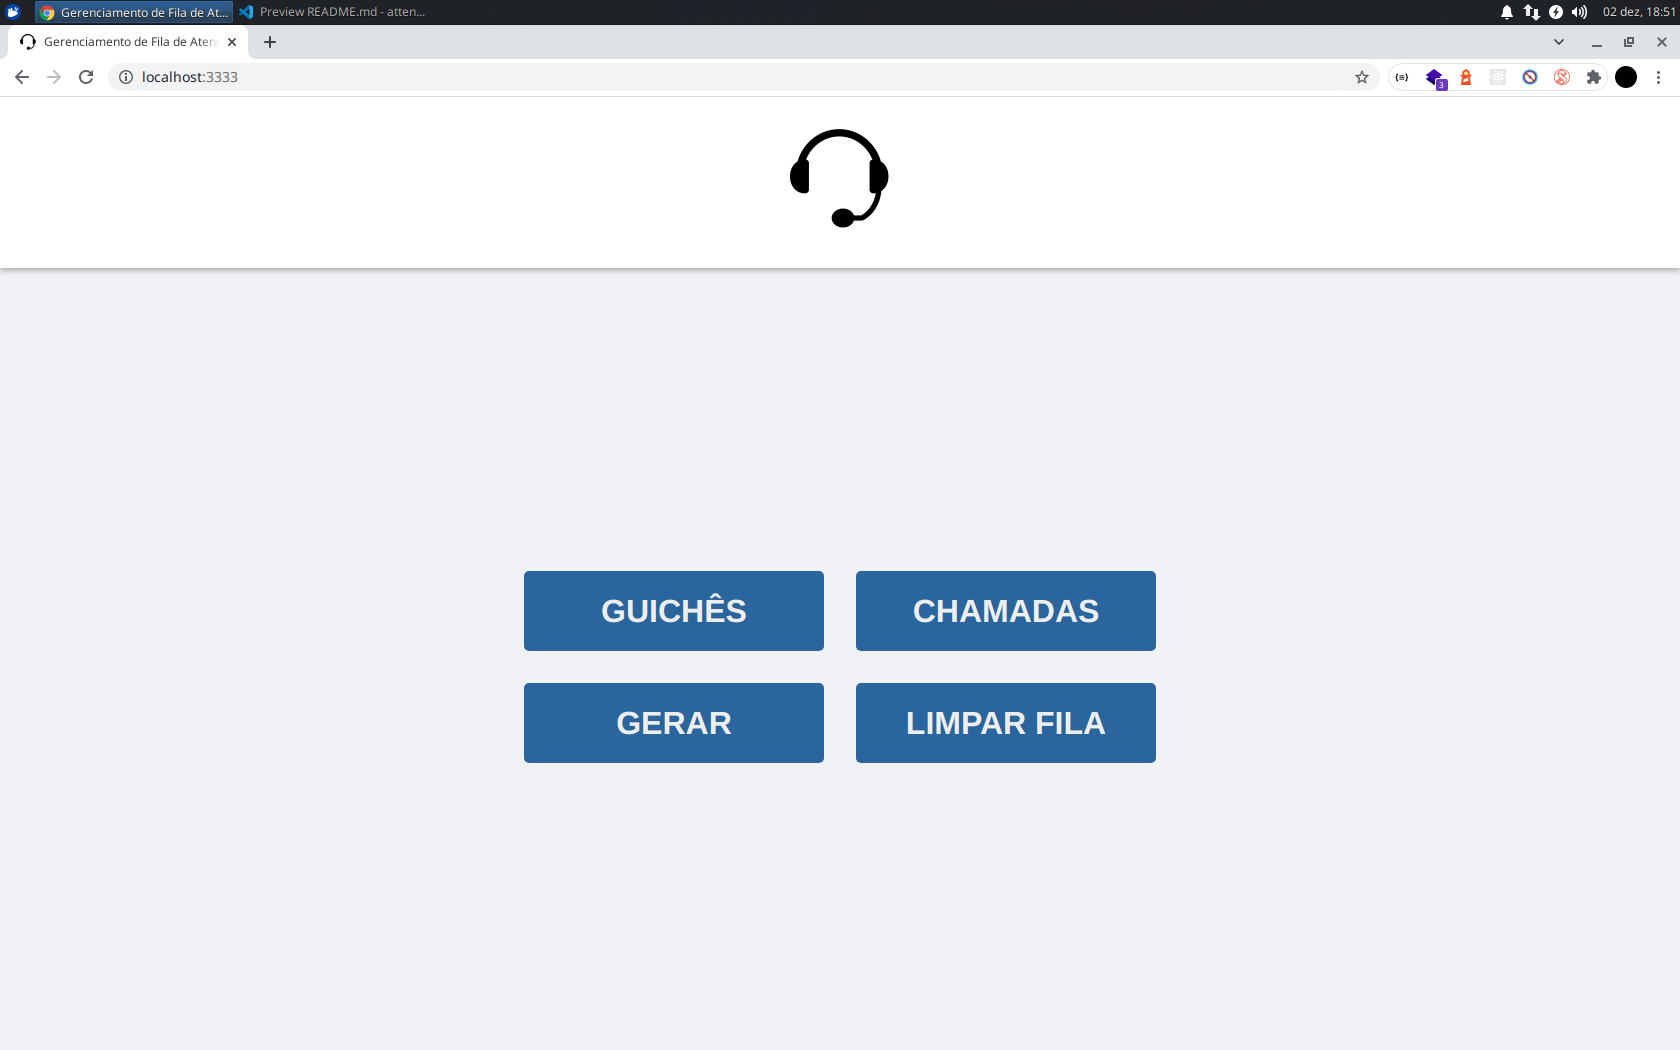
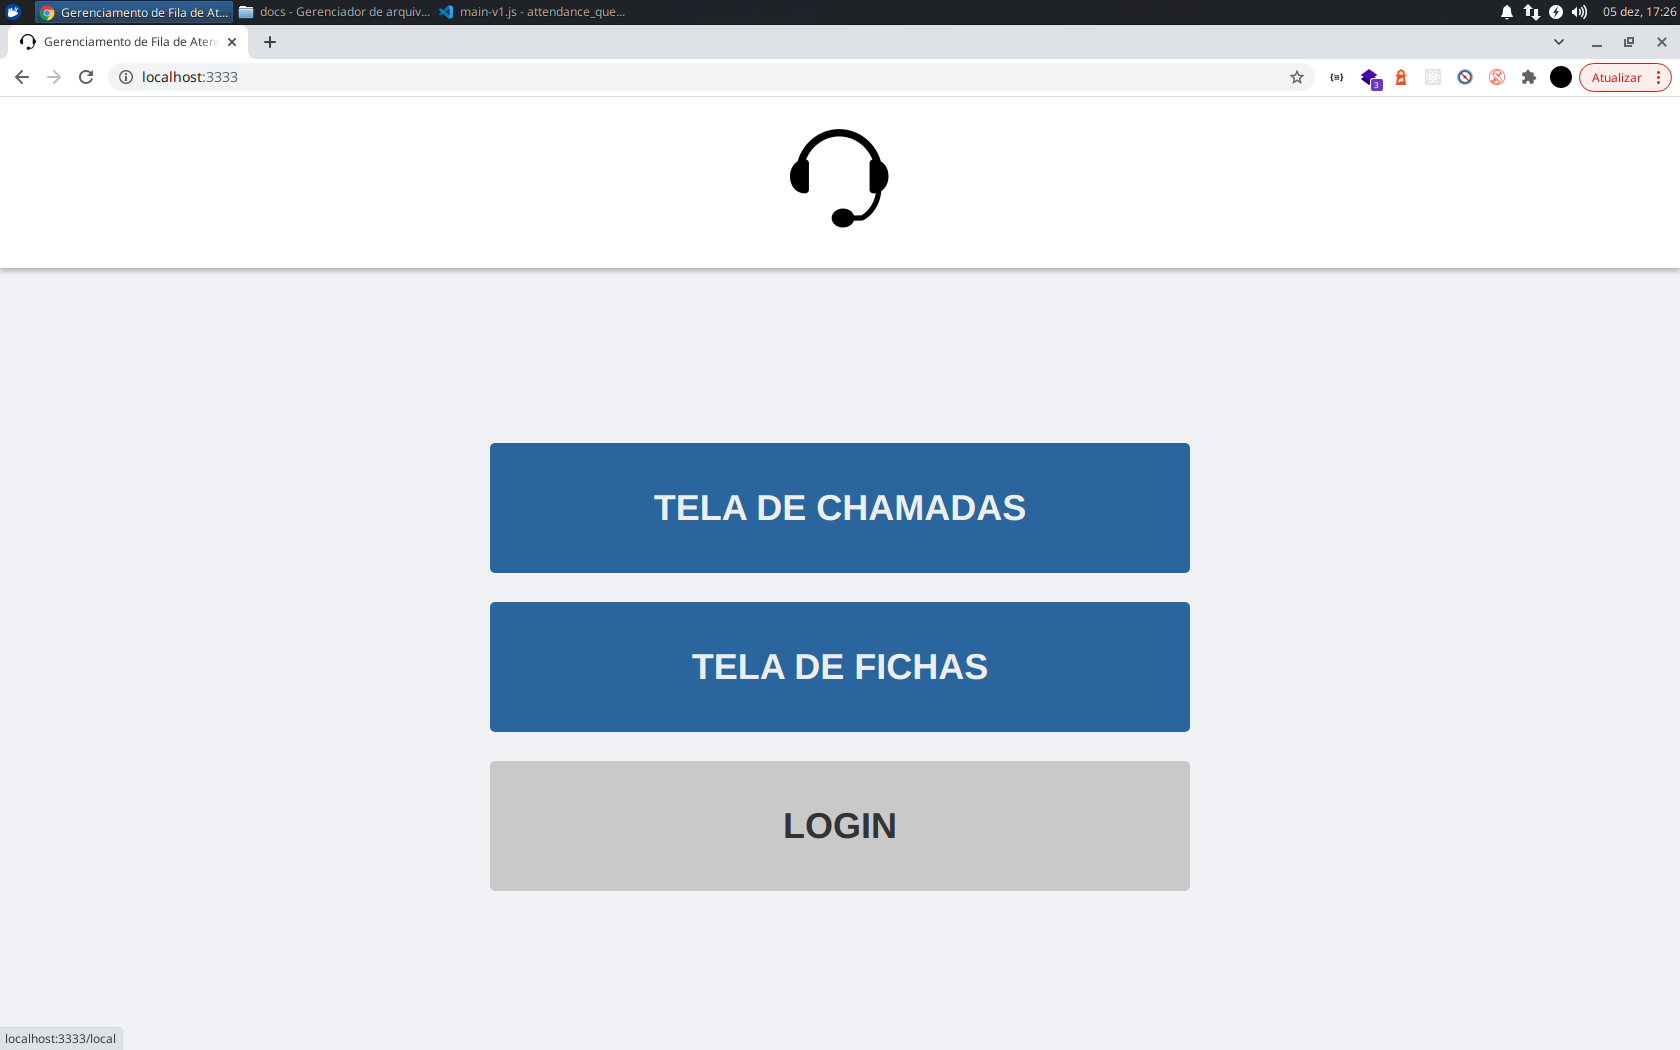
refactor: change queue(QueueCalls) in object from array, change query in locals

diff --git a/public/assets/js/main-v1.js b/public/assets/js/main-v1.js
@@ -1,5 +1,5 @@
 /* eslint-env browser */
-/* eslint no-undef: off */
+/* global firebase */
 /* eslint no-alert: off */
 /* eslint no-implied-eval: off */
 
@@ -13,49 +13,16 @@ const locals = {
   consultorio: 'consultório',
 };
 const data_default = {
-  n: 0,
-  p: 0,
-  queue_nm: [
-    {
-      client: {
-        local: 'GUICHÊ 00',
-        pass: 'NM00',
-      },
-    },
-  ],
-  queue_pd: [
-    {
-      client: {
-        local: 'GUICHÊ 00',
-        pass: 'PD00',
-      },
-    },
-  ],
+  nm: 0,
+  pd: 0,
+  queue_nm: ['NM00'],
+  queue_pd: ['PD00'],
 };
 const audio = new Audio(
   'assets/sounds/salamisound-2028068-ding-dong-bell-doorbell.mp3',
 );
 const container = document.querySelector('#screen');
 const visor_time = document.querySelector('#visor_time');
-
-function createModelQueueCalls() {
-  const getId_queueCalls = database
-    .ref()
-    .child('queueCalls')
-    .push(data_default).key;
-  localStorage.setItem('id_queueCalls', getId_queueCalls);
-
-  const getId_calls = database
-    .ref()
-    .child('calls')
-    .push({
-      client: {
-        local: 'GUICHÊ 00',
-        pass: 'NM00',
-      },
-    }).key;
-  localStorage.setItem('id_calls', getId_calls);
-}
 
 function startCountdown() {
   if (tempo - 0 >= 0) {
@@ -79,6 +46,24 @@ function startCountdown() {
   }
 }
 
+function createModelQueueCalls() {
+  const data = {
+    client: {
+      local: 'GUICHÊ 00',
+      pass: 'NM00',
+    },
+  };
+  const getId_queueCalls = database
+    .ref()
+    .child('queueCalls')
+    .push(data_default).key;
+  localStorage.setItem('id_queueCalls', getId_queueCalls);
+
+  const getId_calls = database.ref().child('calls').push({}).key;
+  database.ref().child(`calls/${getId_calls}`).push(data);
+  localStorage.setItem('id_calls', getId_calls);
+}
+
 function cleanCallsDB(noAlert = false) {
   database
     .ref()
@@ -100,25 +85,23 @@ function generateRecord(e) {
     const data_updated = item.val();
 
     if (e.target.id === 'generate_record_pd') {
-      data_default.queue_pd[0].client.pass = `PD${
-        data_updated.p >= 9
-          ? (data_updated.p += 1)
-          : `0${(data_updated.p += 1)}`
-      }`;
-      data_updated.queue_pd.push(data_default.queue_pd[0]);
-      document.querySelector(
-        '#pass',
-      ).innerText = `Sua senha é: PD${data_updated.p}`;
+      data_updated.queue_pd.push(
+        `PD${
+          data_updated.pd >= 9
+            ? (data_updated.pd += 1)
+            : `0${(data_updated.pd += 1)}`
+        }`,
+      );
+      alert(`Sua senha é: PD${data_updated.pd}`);
     } else {
-      data_default.queue_nm[0].client.pass = `NM${
-        data_updated.n >= 9
-          ? (data_updated.n += 1)
-          : `0${(data_updated.n += 1)}`
-      }`;
-      data_updated.queue_nm.push(data_default.queue_nm[0]);
-      document.querySelector(
-        '#pass',
-      ).innerText = `Sua senha é: NM${data_updated.n}`;
+      data_updated.queue_nm.push(
+        `NM${
+          data_updated.nm >= 9
+            ? (data_updated.nm += 1)
+            : `0${(data_updated.nm += 1)}`
+        }`,
+      );
+      alert(`Sua senha é: NM${data_updated.nm}`);
     }
 
     const updates = {};
@@ -133,36 +116,59 @@ function generateRecord(e) {
 }
 
 function nextCall(e) {
+  let tempo2 = 0;
+  function startCountdownLocal() {
+    if (tempo2 - 0 >= 0) {
+      let min = tempo2 / 60;
+      let seg = tempo2 % 60;
+
+      if (min <= 9) {
+        min = `0${min}`;
+        min = min.substr(0, 2);
+      } else {
+        min = parseInt(min, 10);
+      }
+
+      if (seg <= 9) {
+        seg = `0${seg}`;
+      }
+
+      visor_time.innerText = `${min}:${seg}`;
+      setTimeout(`startCountdown()`, 1000);
+      tempo2 += 1;
+    }
+  }
+
   database.ref(`queueCalls/${id_queueCalls}`).once('value', item => {
     const data_updated = item.val();
     const local = window.location.search.split('?')[1].split('l=')[1];
     const number = window.location.search.split('?')[2].split('n=')[1];
-    let element;
-    let data;
+    const data = {
+      client: {
+        local: `${local
+          .replace(local, locals[local])
+          .toLocaleUpperCase()} ${number}`,
+        pass: '00',
+      },
+    };
 
     if (e.target.id === 'next_nm') {
-      element = data_updated.queue_nm;
-      if (!(element.length >= 2)) {
+      if (!(data_updated.queue_nm.length >= 2)) {
         return alert('Sem fila');
       }
-      data = element.splice(1, 1);
-      data_updated.queue_nm = element;
+      const [pass] = data_updated.queue_nm.splice(1, 1);
+      data.client.pass = pass;
     } else {
-      element = data_updated.queue_pd;
-      if (!(element.length >= 2)) {
+      if (!(data_updated.queue_pd.length >= 2)) {
         return alert('Sem fila');
       }
-      data = element.splice(1, 1);
-      data_updated.queue_pd = element;
+      const [pass] = data_updated.queue_pd.splice(1, 1);
+      data.client.pass = pass;
     }
 
-    document.querySelector(
-      '#pass',
-    ).innerText = `Senha chamada é: ${data[0].client.pass}`;
-
-    data[0].client.local = `${local
-      .replace(local, locals[local])
-      .toLocaleUpperCase()} ${number}`;
+    document.querySelector('#pass').innerText = data.client.pass;
+    tempo = 0;
+    startCountdownLocal();
 
     const updates = {};
     updates[`/queueCalls/${id_queueCalls}`] = data_updated;
@@ -173,7 +179,7 @@ function nextCall(e) {
         alert('not updated');
       });
 
-    return database.ref().child(`calls/${id_calls}`).push(data[0]);
+    return database.ref().child(`calls/${id_calls}`).push(data);
   });
 }
 

diff --git a/src/routes.js b/src/routes.js
@@ -2,20 +2,25 @@ const { Router } = require('express');
 
 const router = Router();
 
-router.get('/', (request, response) =>
-  response.render('home', { pathanme: '/' }),
-);
+router.get('/', (request, response) => response.render('home', { footer: 0 }));
 router.get('/call', (request, response) =>
-  response.render('call', { pathanme: '/call' }),
+  response.render('call', { footer: 1 }),
 );
 router.get('/generate', (request, response) =>
-  response.render('generate_record', { pathanme: '/generate' }),
+  response.render('generate_record', { footer: 0 }),
 );
-router.get('/local', (request, response) =>
-  request.query.l
-    ? response.render('locals', { pathanme: '/local' })
-    : response.render('local', { pathanme: '/local' }),
-);
+router.get('/local', (request, response) => {
+  const { l } = request.query;
+
+  if (l) {
+    const local = l.split('?')[0];
+    const number = l.split('?')[1].split('n=')[1];
+    const name_local = `${local.toLocaleUpperCase()} ${number}`;
+    return response.render('locals', { footer: 2, name_local });
+  }
+
+  return response.render('local', { footer: 0 });
+});
 router.use('*', (req, res, next) => res.redirect('/'));
 
 module.exports = router;

diff --git a/public/assets/css/style-v1.css b/public/assets/css/style-v1.css
@@ -56,13 +56,6 @@ header h2 {
   justify-content: center;
   width: 100%;
 }
-.container__sub {
-  width: 800px;
-  display: flex;
-  justify-content: center;
-  align-items: center;
-  flex-wrap: wrap;
-}
 .column-reverse {
   flex-direction: column-reverse;
 }
@@ -70,13 +63,13 @@ header h2 {
   flex-direction: column;
 }
 .container__button {
-  margin: .5em;
-  min-width: 300px;
+  margin: .4em;
+  min-width: 700px;
   text-align: center;
   background: var(--color-principal);
   color: #eee;
-  padding: 16px;
-  font-size: 2em;
+  padding: 38px;
+  font-size: 36px;
   cursor: pointer;
   font-weight: bold;
   border-radius: 5px;
@@ -136,15 +129,4 @@ header h2 {
   font-size: 2em;
   text-align: center;
   font-weight: bold;
-}
-@media only screen and (max-width: 960px) {
-  .visor, .footer {
-    flex-direction: column;
-  }
-  .visor input {
-    width: auto;
-  }
-  .container {
-    justify-content: center;
-  }
 }

diff --git a/public/assets/js/auth-v1.js b/public/assets/js/auth-v1.js
@@ -1,5 +1,5 @@
 /* eslint-env browser */
-/* eslint no-undef: off */
+/* global firebase */
 /* eslint no-alert: off */
 /* eslint no-implied-eval: off */
 

diff --git a/README.md b/README.md
@@ -4,8 +4,7 @@
 
 # Screenshot
 <p align="center">
-  <img alt="home" src="./docs/Captura de tela_2021-12-02_18-52-03.png" width="650" />
-  <img alt="home" src="./docs/Captura de tela_2021-12-01_13-33-05.png" width="650" />
+  <img alt="home" src="./docs/attendance_queue_management.png" width="650" />
 </p>
 
 # Como executar
